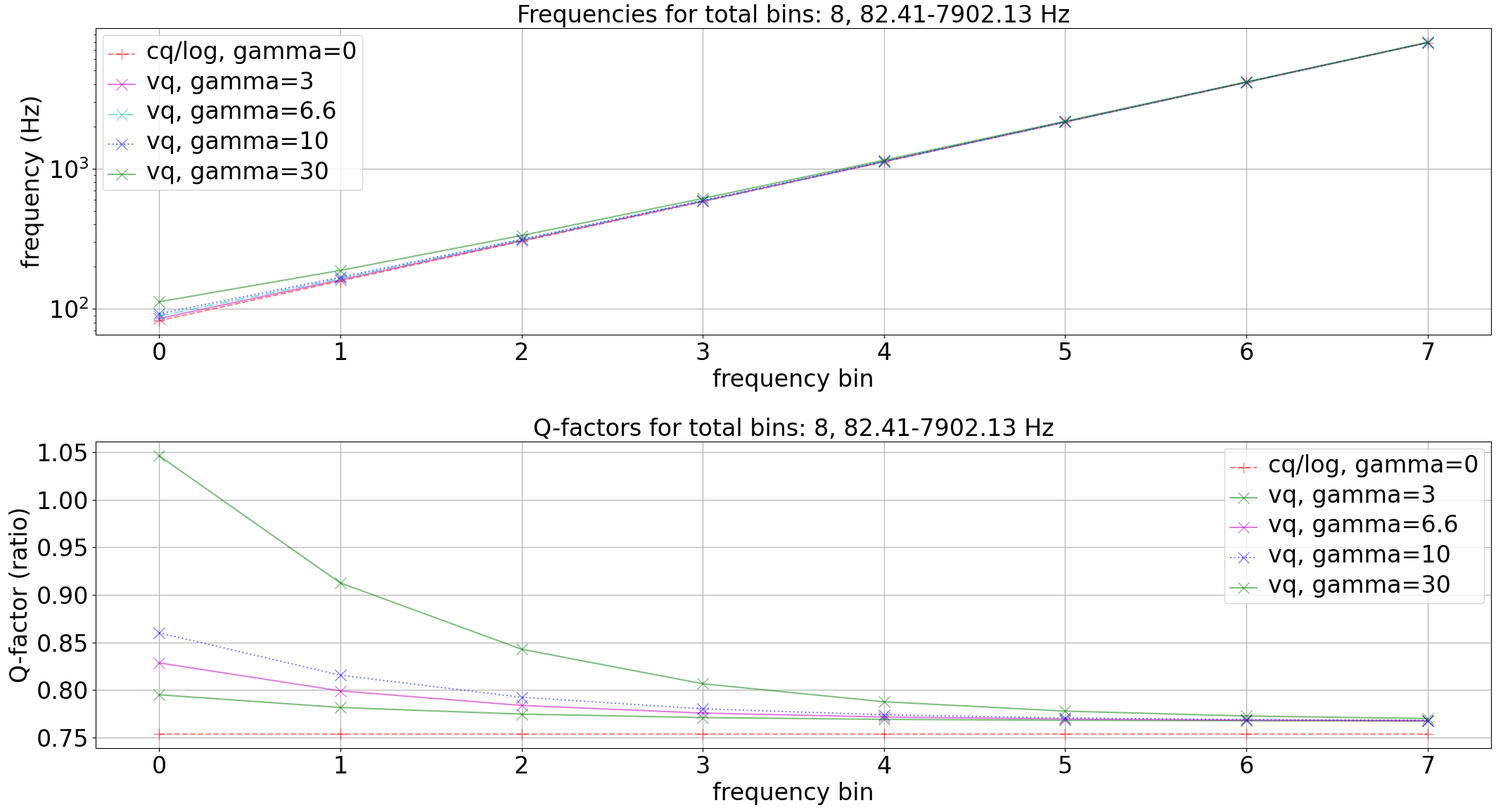
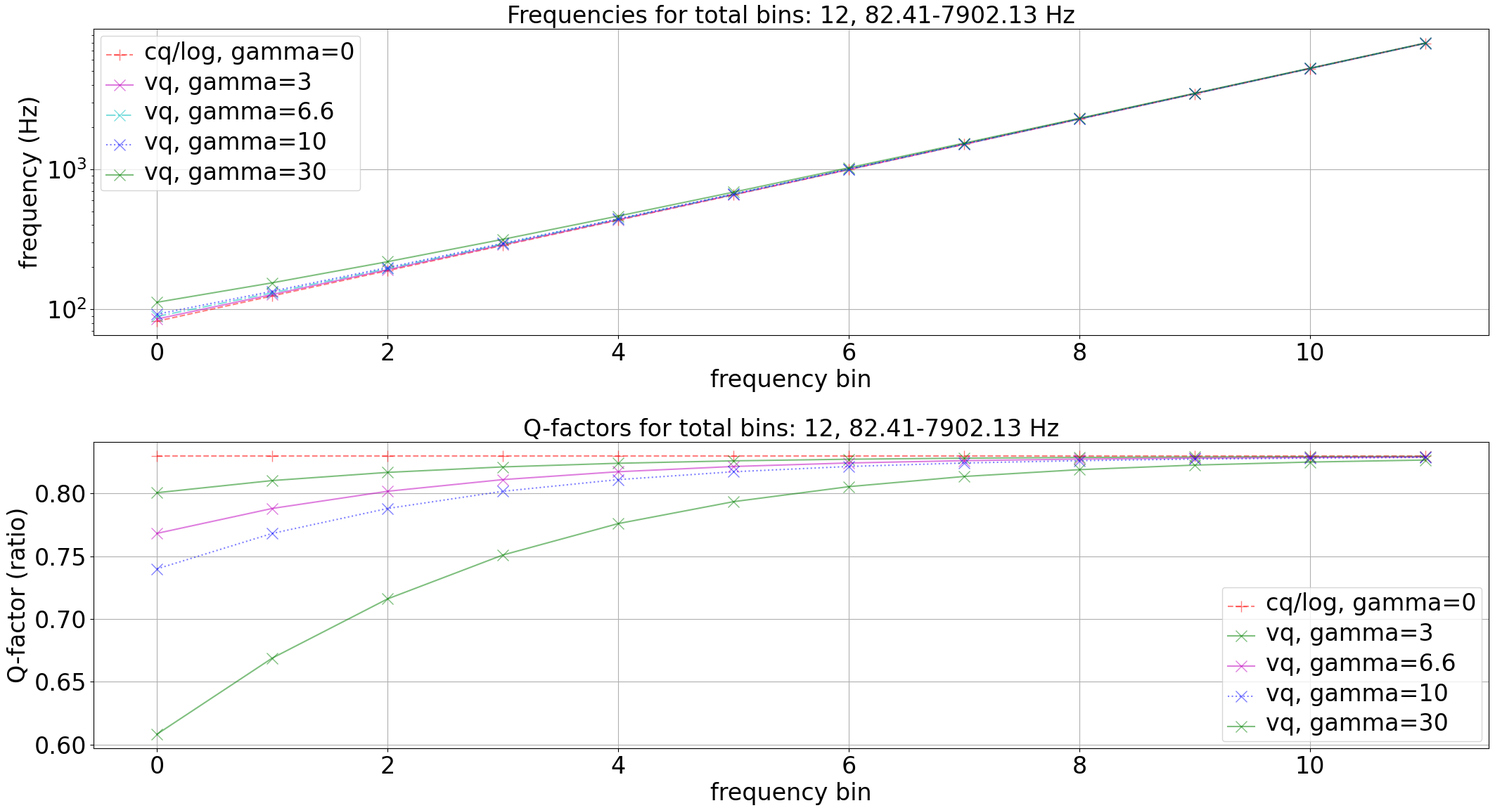
Work on ch2,ch3, add new nsgt 2022 code

diff --git a/latex/ch3.tex b/latex/ch3.tex
@@ -38,7 +38,7 @@ First, in Section \ref{sec:stftslicqtcomp}, \ref{sec:stftslicqtcomp1}, and \ref{
 
 Next, in Section \ref{sec:torchslicq}, I will show the modifications made to the library to compute the transform with PyTorch on the GPU, so that it can be used in the X-UMX neural network code. I will also describe how the PyTorch sliCQT data structure differs from the STFT.
 
-In Section \ref{sec:improvelib}, I will show the addition of new frequency scales that are interesting for music applications that were described in Section \ref{sec:fscales}. Recall from Section \ref{sec:theorynsgt} that the sliCQT can be thought of as a filterbank, and the chosen frequency scale is the most important parameter that defines the spectral representation of the musical signal, which influences the results of the downstream application.
+In Section \ref{sec:improvelib}, I will show the addition of new frequency scales that are interesting for music applications that were described in Section \ref{sec:fscales}. Recall from Section \ref{sec:theorynsgt} that the sliCQT can be thought of as a filterbank, and the chosen frequency scale is the most important parameter that defines the spectral representation of the musical signal, which influences the results of the downstream application. In Section \ref{sec:sllenpicker}, \hl{I will talk about how I added code to automatically choose the slice and transition length of the sliCQT based on the time-frequency resolution requirements of the desired frequency scale.}
 
 Finally, in Section \ref{sec:slicqparamsrch}, I will describe the parameter search that was run to choose frequency scales for the sliCQT with parameters that may perform best in a music demixing application. Section \ref{sec:fasterbsscupy} describes modifications made to the BSS (blind source separation) metrics library to make it run faster on the GPU, with the aim to speed up the parameter search process.
 
@@ -56,7 +56,7 @@ The sliCQT splits the input signal into fixed-size overlapping slices and comput
 From the above, there are two important and distinct characteristics that make working with the sliCQT different from the STFT:
 \begin{enumerate}
 	\item
-		The sliCQT computes the DFT coefficients for fixed-sized slices of the input signal. These slices need to be overlap-added with their adjacent slices to create the final meaningful spectrogram. Note that the shape of the DFT coefficients of each slice is ragged, due to the nonuniform time-frequency resolution.
+		The sliCQT computes the DFT coefficients for fixed-sized slices of the input signal. These slices need to be overlap-added with their adjacent slices to create the final spectrogram. Note that the shape of the DFT coefficients of each slice is ragged, due to the nonuniform time-frequency resolution.
 	\item
 		The overlap-added sliCQT spectrogram has the same ragged characteristic as the individual slices.
 \end{enumerate}
@@ -66,9 +66,7 @@ When designing a data structure for the sliCQT, each of these points has to be a
 \subsubsection{3D shape of the slice-wise sliCQT compared to the 2D STFT}
 \label{sec:stftslicqtcomp1}
 
-The sliCQT was described in Section \ref{sec:theoryslicqt} as a realtime implementation of the NSGT, consisting of DFT coefficients computed for the input signal split into overlapping slices, shown in Figure \ref{fig:slicqtukeys}. The sliCQT therefore returns multiple slices of DFT coefficients for an input signal of length $N > sllen$. These slices need to be overlap-added with 50\% of the previous and next slice to produce a meaningful spectrogram due to the symmetric zero-padding of each slice to reduce time-aliasing, which was described in Section \ref{sec:theoryslicqt} and shown in Figure \ref{fig:slicqoverlaps}.
-
-This is a characteristic specific to the sliCQT; the NSGT, which is the ancestor of the sliCQT not designed for realtime processing, outputs the meaningful spectrogram directly without requiring any overlap-add. To oversimplify, the sliCQT outputs a ragged time-frequency transform similar to the NSGT for each slice of the input signal, and that to produce the final spectrogram for the entire signal, the transform of each slice need to be overlap-added with its adjacent slices.
+The sliCQT was described in Section \ref{sec:theoryslicqt} as a realtime implementation of the NSGT, consisting of DFT coefficients computed for the input signal split into overlapping slices, shown in Figure \ref{fig:slicqtukeys}. The sliCQT therefore returns multiple slices of DFT coefficients for an input signal of length $N > sllen$. These slices need to be overlap-added with 50\% of the previous and next slice to produce a spectrogram, because each slice is symmetrically zero-padded to twice its length to reduce time-aliasing, which was described in Section \ref{sec:theoryslicqt} and shown in Figure \ref{fig:slicqoverlaps}. This is a characteristic specific to the sliCQT. The NSGT, which is the ancestor of the sliCQT not designed for realtime processing, outputs the spectrogram directly without requiring any overlap-add.
 
 Figure \ref{fig:raggedslicqtoverlapadd} shows the procedure of overlap-adding ragged adjacent slices of the sliCQT to produce the final overlap-added ragged transform.
 
@@ -151,11 +149,13 @@ In this section, I will discuss why I would like to add new frequency scales to 
 
 The frequency scale is the most important parameter of the NSGT and sliCQT. It defines the nonuniform frequency bands for audio analysis desired by the user. The choice of frequency scale affects the spectral representation of the music signal. The hypothesis of this thesis is that a spectrogram generated from a musical or auditory frequency scale may improve the results of the downstream music demixing system compared to the STFT, which suffers from the time-frequency tradeoff described in Section \ref{sec:jointtfa}.
 
-Section \ref{sec:theorynsgt} showed examples of NSGT spectrograms with the Constant-Q (logarithmic) and mel scales, in Figures \ref{fig:bunchansgts1} and \ref{fig:bunchansgts2}. These are the scales provided in the reference NSGT/sliCQT library. In Section \ref{sec:fscales}, I discussed that the Variable-Q scale for music and Bark psychoacoustic scale are both of interest in music or auditory applications. For this reason, I chose to implement the Variable-Q and Bark scales to supplement the Constant-Q and mel scales.
+\hl{I want to remark on the omission of the octave scale from this section}, which is the only scale for the sliCQT shown in the paper \parencite{slicq}. It is also the default scale in the various open-source implementations of the NSGT.\footnote{\url{https://github.com/grrrr/nsgt}, \url{https://www.mathworks.com/help/wavelet/ref/cqt.html}, \url{http://ltfat.org/doc/filterbank/cqt_code.html}} The octave scale is like the Constant-Q (logarithmic in base two) scale, except that the bins parameter is interpreted as bins-per-octave, and the total frequency bins is computed from equation \eqref{equation:bpo} shown in Section \ref{sec:cqt}. This is discussed in Appendix \ref{appendix:octscale}. In xumx-sliCQ, I want the bins parameter to control the number of output frequency bins of the sliCQT directly, without the bins-per-octave calculation in between.
+
+Section \ref{sec:theorynsgt} showed examples of NSGT spectrograms with the Constant-Q (logarithmic in base two) and mel scales, in Figures \ref{fig:bunchansgts1} and \ref{fig:bunchansgts2}. These are the scales provided in the reference NSGT/sliCQT library. In Section \ref{sec:fscales}, I discussed that the Variable-Q scale for music and Bark psychoacoustic scale are both of interest in music or auditory applications. For this reason, I chose to implement the Variable-Q and Bark scales to supplement the Constant-Q and mel scales.
 
 The parameters to a frequency scale in the NSGT/sliCQT library are $f_{\text{min}}$ and $f_{\text{max}}$, which are the minimum and maximum frequency in Hz, and the total frequency bins. The type of scale determines how the frequency bins are distributed between $f_{min}$--$f_{\text{max}}$. A custom frequency scale may use additional parameters as needed.
 
-The first frequency scale I added was the Variable-Q scale,\footnote{\url{https://github.com/sevagh/nsgt/blob/main/nsgt/fscale.py\#L105}} which introduces an additional parameter, $\gamma \text{ (Hz)}$ for the offset. $\gamma$ is a frequency offset added to each frequency band to reduce the Q-factor and improve the time resolution in the lower frequency bins, as described in Section \ref{sec:fscales} The Constant-Q scale is compared to Variable-Q scale \hl{for different values of} $\gamma$ in Figure \ref{fig:vq}.
+The first frequency scale I added was the Variable-Q scale,\footnote{\url{https://github.com/sevagh/nsgt/blob/main/nsgt/fscale.py\#L105}} which introduces an additional parameter, $\gamma \text{ (Hz)}$ for the offset. $\gamma$ is a frequency offset added to each frequency band to reduce the Q-factor and improve the time resolution in the lower frequency bins, as described in Section \ref{sec:fscales} Figure \ref{fig:vq} compares the Constant-Q and Variable-Q frequency scales and Q-factors \hl{for different values of} $\gamma$. The Q-factor of Constant-Q scale was defined as the relative frequency resolution in Section \ref{sec:cqt}, so a low Q-factor
 
 \begin{figure}[ht]
 	\centering
@@ -164,20 +164,21 @@ The first frequency scale I added was the Variable-Q scale,\footnote{\url{https:
 	\label{fig:vq}
 \end{figure}
 
-The next frequency scale I added was the Bark psychoacoustic scale,\footnote{\url{https://github.com/sevagh/nsgt/blob/main/nsgt/fscale.py\#L207}} to complement the included mel scale, as discussed in Section \ref{sec:fscales}. Figure \ref{fig:melbarkfsandqs} shows the mel and Bark frequency scales and Q-factors from the NSGT library for 12 total mel and Bark bands.
+The next frequency scale I added was the Bark psychoacoustic scale,\footnote{\url{https://github.com/sevagh/nsgt/blob/main/nsgt/fscale.py\#L207}} to complement the included mel scale, as discussed in Section \ref{sec:fscales}. Figure \ref{fig:melbarkfsandqs} shows the mel and Bark frequency scales and Q-factors.
 
 \begin{figure}[ht]
 	\centering
 	\includegraphics[width=\textwidth]{./images-freqscales/melbarkpitchesqs.png}
-	\caption{Mel and Bark frequency curves and Q-factors from the NSGT library}
+	\caption{Frequency bins and Q-factors for the mel and Bark scales}
 	\label{fig:melbarkfsandqs}
 \end{figure}
 
-\hl{As mentioned in Section} \ref{sec:theoryslicqt}, the sliCQT processes the input signal in fixed-sized slices, ideal for realtime processing and for input signals with arbitrary lengths. Compared to the NSGT, the sliCQT has an additional need for slice length and transition length parameters. To analyze an input musical signal with the above nonuniform frequency scales, the slice and transition length of sliCQT need to be set appropriately to support the varying time-frequency resolution. I added code to the sliCQT library to automatically choose the minimum appropriate slice length and transition length for a given frequency scale.\footnote{\url{https://github.com/sevagh/nsgt/blob/main/nsgt/fscale.py\#L36}} This improves the user experience by only requiring the frequency scale as the parameter to the sliCQT.
+\subsubsection{Automatic slice length picker}
+\label{sec:sllenpicker}
 
-As a final note, the existing NSGT implementations\footnote{\url{https://github.com/grrrr/nsgt}, \url{https://www.mathworks.com/help/wavelet/ref/cqt.html}, \url{http://ltfat.org/doc/filterbank/cqt_code.html}} use an octave scale, which is the same as the Constant-Q/logarithmic scale, except that the bins parameter is interpreted as bins-per-octave. This is discussed in Appendix \ref{appendix:octscale}.
+\hl{As mentioned in Section} \ref{sec:theoryslicqt}, the sliCQT processes the input signal in fixed-sized slices, ideal for realtime processing and for input signals with arbitrary lengths. Compared to the NSGT, the sliCQT has an additional need for slice length and transition length parameters. To analyze an input musical signal with nonuniform frequency scales, the slice and transition length of sliCQT need to be set appropriately to support the varying time-frequency resolution. I added code to the sliCQT library to automatically choose the minimum appropriate slice length and transition length for a given frequency scale.\footnote{\url{https://github.com/sevagh/nsgt/blob/main/nsgt/fscale.py\#L36}} This improves the user experience by only requiring the frequency scale as the parameter to the sliCQT.
 
-\newpagefill
+\explanation{just made this a subsection}
 
 \subsubsection{Choosing sliCQT parameters}
 \label{sec:slicqparamsrch}
@@ -185,8 +186,6 @@ As a final note, the existing NSGT implementations\footnote{\url{https://github.
 In this section, I will design a sliCQT parameter search to discover optimal sliCQT parameters that produce the best mixed phase inversion (MPI) oracle results. MPI is the music demixing strategy where the target magnitude spectrogram is combined with the phase of the mix spectrogram to create a time-domain target waveform estimate, as was described in Section \ref{sec:noisyphaseoracle}. The MPI oracle represents the best possible result of the MPI strategy by using the ground truth target magnitude spectrogram. Since the MPI strategy is used in X-UMX and xumx-sliCQ, my hypothesis is that maximizing the MPI oracle result would maximize the music demixing performance of the final neural network.
 
 As discussed in Section \ref{sec:ml}, the validation split of a dataset is often used to tune hyperparameters, which are the parameters of a machine learning or deep learning network defined by the user. In xumx-sliCQ, the sliCQT parameters are a hyperparameter, similar to how the STFT settings of the window and hop size are hyperparameters in X-UMX.
-
-According to \textcite{randomgrid}, 60\todo{fix magic num} iterations of a random search will find a statistically good set of hyperparameters in a case where an exhaustive grid search is impossible. I chose a random search because the space of all the possible sliCQT parameters is infinite.
 
 As described in Section \ref{sec:improvelib}, the time and frequency resolution of the sliCQT are defined from the frequency scale, and the parameters of the frequency scale are $f_{\text{min}}$ and $f_{\text{max}}$, which are the minimum and maximum frequency in Hz, and the total frequency bins.
 
@@ -218,6 +217,14 @@ The random search parameters are shown in Table \ref{table:slicqparams}. Note th
 \end{tabular}
 \end{table}
 
+\hl{The space of possible parameters is infinite}, even with the ranges constrained as in Table \ref{table:slicqparams}. Therefore, an exhaustive grid search over all the possible parameters is impossible. I chose instead to do a random search over the parameter space. \textcite{randomgrid} found that in a hyperparameter search for a neural network,
+
+\begin{quote}
+	[o]ften the extent of a search is determined by a computational budget, and with random search 64 trials are enough to find better models in a larger less promising space \parencite[293]{randomgrid}
+\end{quote}
+
+\hl{Since the sliCQT parameters are hyperparameters} of the xumx-sliCQ neural network, I decided from the above that using at least 64 iterations of a random search would yield a good enough result. I ran two instances of the script with 60 iterations each, resulting in 120 total iterations of the random parameter search for each of the four frequency scales. Each instance of the script used a different random seed (42 and 1337) (the role of fixing the seed of Python's random number generator (RNG) is discussed in Section \ref{sec:pyrng}.
+
 Recall from Section \ref{sec:evalbss} that the Signal-to-Distortion (SDR) is one of the scores of the BSS metrics, with a units of decibels (dB), which is commonly used as a single metric that summarizes the global performance of a music demixing system. The selected sliCQT frequency scale parameters were evaluated by computing the mix-phase waveforms, which were described in Section \ref{sec:noisyphaseoracle}. The phase of the complex sliCQT of the mixed song and the magnitude of the complex sliCQT of the ground-truth source signal for all four sources (drums, bass, vocals, other) were combined to create the MPI (mix-phase inversion) waveforms. The median SDR was computed across the four sources and 14 validation tracks of MUSDB18-HQ, and the sliCQT parameters that resulted in the MPI waveforms with the highest SDR were selected as the final sliCQT parameters to use in the neural network.
 
 \subsubsection{Speeding up the parameter search using the GPU and CuPy}
@@ -231,7 +238,7 @@ The bottlenecks of the BSS metrics library are caused by NumPy and SciPy operati
 
 I copied the BSS metrics library \hl{to my own GitHub user account},\footnote{\url{https://github.com/sevagh/sigsep-mus-eval}} which is called \Verb#sigsep-mus-eval# in the SigSep GitHub organization, and replaced the slowest NumPy and SciPy functions with their CuPy equivalents,\footnote{\url{https://github.com/sevagh/sigsep-mus-eval/commit/f3b7540faddc8d2b1bc91cecaf05fd20d96df7c6}} taking special care about GPU out-of-memory errors. The library is unchanged for end users, and the GPU is simply used whenever possible, falling back to the CPU in case of any errors, or if there is no GPU available on the user's computer.
 
-\todo[inline,color=green!40]{The relevance here is to make clear that the upstream BSS metrics library does not include my speedups, and that its available only in my copy}
+\explanation{The relevance here is to make clear that the upstream BSS metrics library does not include my speedups, and that its available only in my copy}
 
 \newpagefill
 
@@ -249,7 +256,7 @@ Finally, in Section \ref{sec:xumxinc} I will show how I incorporated the X-UMX i
 
 In this section, I will describe the changes made to X-UMX to support the data-structure of the sliCQT shown in Section \ref{sec:torchslicqdatastructure}, which addressed the distinct traits of the sliCQT compared to the STFT: the 3D slice-wise output, and the ragged shape from the nonuniform time-frequency resolution.
 
-Firstly, X-UMX uses a sequence duration of six seconds, meaning the training inputs are six second waveforms of audio. The dimensionality of the sliCQT is larger than the STFT. The sliCQT of a six second sequence is larger than the equivalent STFT, which leadsd to more GPU memory being required in training. In xumx-sliCQ, I chose a smaller value of one second of music, chosen because it is often used in demixing papers \parencite{plumbley1, plumbley2, demucs}, and because the shorter sequence results in a smaller sliCQT, \hl{reducing the memory demands on the GPU}.
+Firstly, X-UMX uses a sequence duration of six seconds, meaning the training inputs are six second waveforms of audio. The dimensionality of the sliCQT is larger than the STFT. The sliCQT of a six second waveform is larger than the STFT, which leads to more GPU memory being required in training. In xumx-sliCQ, I chose a smaller value of one second of music, chosen because it is often used in demixing papers \parencite{plumbley1, plumbley2, demucs}, and because the shorter sequence results in a smaller sliCQT, \hl{reducing the memory demands on the GPU}.
 
 In sections \ref{sec:raggedtf} and \ref{sec:torchslicqdatastructure}, I described the data structure of the ragged sliCQT and how it differed from the single rectangular matrix of the STFT. The ragged sliCQT outputs a list of 3D matrices, representing the sliced transform, that must be overlap-added to create a list of 2D time-frequency matrices. Recall that the list was introduced from the raggedness of the transform, because each group of time-frequency bins has a different temporal framerate, resulting in a different size tensor or matrix. This raggedness is a desired characteristic of nonuniform time-frequency transforms like the NSGT, sliCQT, and even the original CQT.
 
@@ -260,7 +267,7 @@ First, the list of 3D tensors of the sliCQT must always be overlap-added to tran
 
 In this section, a choice of Bi-LSTM and CDAE architectures for the ragged sliCQT in xumx-sliCQ will be presented.
 
-\todo[inline,color=green!40]{how these were implemented? copied from umx originally, and the torch code of the CDAE paper}
+\explanation{how these were implemented? copied from umx originally, and the torch code of the CDAE paper}
 
 Figure \ref{fig:cdaeslicqt} shows how both the Bi-LSTM and CDAE network architectures should be applied to the ragged sliCQT. Instead of having a single neural network operate on the single matrix of the STFT, which includes all of the frequency bins at the same temporal frame rate, there must be a neural network that operates on each of the sub-matrices of the ragged sliCQT.
 
@@ -289,7 +296,7 @@ As discussed in sections \ref{sec:cnn} and \ref{sec:cdae}, convolutional layers,
 
 Using the values from \textcite{plumbley2}, the two layers of convolution in the CDAE of xumx-sliCQ use 25 and 55 channels respectively.\todo{create a diagram} This means that the stereo or 2-channel sliCQT has 25 output feature maps (or channels) computed from the first encoder convolutional layer, and 55 output feature maps from the second encoder convolutional layer. These are reversed in the decoder layer i.e., $2 \rightarrow \text{encoder}(25 \rightarrow 55) \rightarrow \text{decoder}(25 \rightarrow 2)$. The sub-matrices of the ragged sliCQT may have different dimensions for time and frequency, due to their varying frequency bins and temporal framerates, so the 2D convolution filter sizes are adapted to the input size. After each layer, a 2D batch normalization (BN) and nonlinear activation function, specifically the rectified linear unit (ReLU) activation, are applied \parencite{plumbley2}.
 
-The exact parameters and configuration of the convolutional kernels and layers are described in Tables \ref{table:convtable1}, \ref{table:convtable2}, \ref{table:convtable3}, and \ref{table:convtable4}. The parameters were initially chosen from the kernel values and layers in \textcite{plumbley1, plumbley2}. The parameters and network architectures were repeatedly modified in a hyperparameter tuning process, and an overview of all the historical experiments of xumx-sliCQ is included in Appendix \ref{appendix:crazyexperiments}.
+The exact parameters and configuration of the convolutional kernels and layers are described in Tables \ref{table:convtable1}, \ref{table:convtable2}, \ref{table:convtable3}, and \ref{table:convtable4}. The parameters were initially chosen from the kernel values and layers in \textcite{plumbley1, plumbley2}. The parameters and network architectures were repeatedly modified in a hyperparameter tuning process, \hl{and an overview of all the historical experiments of xumx-sliCQ} is included in Appendix \ref{appendix:crazyexperiments}.
 
 \begin{table}[ht]
 	\centering
@@ -347,16 +354,16 @@ The exact parameters and configuration of the convolutional kernels and layers a
 \subsubsection{Bandwidth parameter}
 \label{sec:bandwidth}
 
-Another\todo{say why im talking about this} detail of the original X-UMX neural network architecture is the bandwidth parameter, which is set to a default value of 16,000 Hz. This controls the maximum STFT frequency bin which is passed through the network; frequency bins above the one corresponding to 16,000 Hz are cropped before passing the spectrogram into the network. I used the same parameter in both Bi-LSTM and CDAE architectures of xumx-sliCQ. In the ragged sliCQT, the sub-matrices of the ragged transform that contain frequency bins above 16,000 Hz are passed through the neural network unchanged, to achieve the same effect.
+X-UMX has a bandwidth parameter which controls how much of the 2049 output frequencies of the STFT with a window size of 4096 are used as an input to the neural network. The default value of the bandwidth parameter is 16,000 Hz, which means that the frequency bins of the STFT $> 16,000 \text{ Hz}$ are cropped before the STFT is input into the neural network. I implemented the same parameter in both Bi-LSTM and CDAE architectures of xumx-sliCQ. In the ragged sliCQT, it is possible to obtain the frequency value of each frequency bin. To implement the bandwidth parameter, I pass the frequency bins corresponding to a Hz value greater than the bandwidth parameter through the network unchanged.
 
-\todo[inline,color=green!40]{just made this a subsection}
+\explanation{just made this a subsection}
 
 \subsubsection{De-overlap layer}
 \label{sec:deoverlap}
 
 In this section, I will discuss the ``de-overlap layer,'' which is necessary for both the Bi-LSTM and CDAE architectures of xumx-sliCQ. This is the inverse of the 50\% slice overlap-add procedure with learnable parameters.
 
-\todo[inline,color=green!40]{original contribution? yes. how do i know it was correct? well, 3.6 dB isn't world-beating, but it's probably better than random garbage, indicating my network is doing something correctly}
+\explanation{original contribution? yes. how do i know it was correct? well, 3.6 dB isn't world-beating, but it's probably better than random garbage, indicating my network is doing something correctly}
 
 I use a transpose convolution layer with a kernel size of $(1, 3)$ and a stride of $(1, 2)$ where the first dimension is frequency and the second is time. This means that for each frequency bin, the kernel slides and considers three time coefficients to produce six time coefficients. The effect is to double the number of time coefficients, which is a reversal of the 50\% reduction of time coefficients from the overlap-add procedure.
 
@@ -369,7 +376,7 @@ Finally, the 2D sliCQT is reshaped to the original 3D shape, separating it back 
 
 To implement the time-domain SDR loss, I use the auraloss Python package.\footnote{\url{https://github.com/csteinmetz1/auraloss}} I used the SI-SDR (scale-invariant SDR) \parencite{roux2018sdr} variant of SDR as the loss function. SI-SDR is a simpler and more robust variant of SDR which improves on some failure cases of SDR \parencite{roux2018sdr}.
 
-\todo[inline,color=green!40]{this is different now that i shifted the burden of explaining UMX vs. X-UMX to chapter 2}
+\explanation{this is different now that i shifted the burden of explaining UMX vs. X-UMX to chapter 2}
 
 \newpagefill
 

diff --git a/latex/ch4.tex b/latex/ch4.tex
@@ -6,7 +6,6 @@ General tips:\\
   Switch passive voice and we to I\\
   Re-spell acronyms at the beginning of Chapter\\
  Chapter tips:\\
-   Fix boxplot colors\\
    More redundancy (restate hypothesis, goals)
 }
 \section{Experiment}
@@ -14,18 +13,18 @@ General tips:\\
 
 This section contains the results of the experiments described in the previous Section \ref{sec:methodology}. Refer to appendix \ref{appendix:computerspec} for the hardware and software specifications of the computer on which the experiments and results in this section were generated from.
 
-The goal of this thesis is to use the sliced Constant-Q Transform (sliCQT) instead of the Short-Time Fourier Transform (STFT) in CrossNet-Open-Unmix (X-UMX), a neural network for music demixing. The sliCQT has a varying time-frequency resolution more suitable for auditory and psychoacoustic applications, which may give it an advantage in musical applications over the STFT which is limited by a fixed time-frequency resolution.
+The goal of this thesis is to use the sliced Constant-Q Transform (sliCQT) to represent musical signals in CrossNet-Open-Unmix (X-UMX), a neural network for music demixing. The sliCQT has a varying time-frequency resolution more suitable for auditory and psychoacoustic applications, which may give it an advantage in musical applications over the STFT which is limited by a fixed time-frequency resolution.
 
-To use the sliCQT in a neural network using the PyTorch framework, the reference library was first ported to PyTorch. This port was described in Section \ref{sec:torchslicq}, and in Section \ref{sec:gpuexperimentpytorch}, I will show the benchmark results.
+To use the sliCQT in a neural network using the PyTorch framework, the reference sliCQT library was first ported to PyTorch. This port was described in Section \ref{sec:torchslicq}, and in Section \ref{sec:gpuexperimentpytorch}, I will show the benchmark results.
 
 In Section \ref{sec:slicqparamsrch}, I described a random parameter search for the sliCQT which used the mix-phase inversion (MPI) oracle to pick sliCQT parameters that might perform best in a music demixing system that uses the MPI strategy for estimating waveforms. In Section \ref{sec:slicqparamresults}, I will show the sliCQT parameters that were chosen by the random search script. The BSS metrics library was sped up with CuPy in Section \ref{sec:fasterbsscupy} to allow for faster sliCQT parameter searches, and in Section \ref{sec:cupyportbss}, I will show the benchmark results.
 
-After porting the sliCQT to PyTorch and choosing the sliCQT parameters, the next step is to train and evaluate the xumx-sliCQ neural network. Section \ref{sec:nnresults} contains the results for the neural network design presented in Section \ref{sec:neuralnet}. First, Section \ref{sec:hyperparams} will list all of the network hyperparameters. Next, Section \ref{sec:networktraining} will describe the training times and losses of the network architectures described in Section \ref{sec:slicqarches}. Finally, Section \ref{sec:demixresults} will show the music demixing results of the fully trained xumx-sliCQ model, using both post-processing Wiener-EM configurations described in Section \ref{sec:postprocessing}, and Section \ref{sec:inferenceperf} will describe the inference performance and model size on disk.
+After porting the sliCQT to PyTorch and choosing the sliCQT parameters, the next step was to train and evaluate the xumx-sliCQ neural network. Section \ref{sec:nnresults} contains the results for the neural network design presented in Section \ref{sec:neuralnet}. First, Section \ref{sec:hyperparams} will list all of the network hyperparameters. Next, Section \ref{sec:networktraining} will describe the training times and losses of the network architectures described in Section \ref{sec:slicqarches}. Finally, Section \ref{sec:demixresults} will show the music demixing results of the fully trained xumx-sliCQ model, using both post-processing Wiener-EM configurations described in Section \ref{sec:postprocessing}, and Section \ref{sec:inferenceperf} will describe the inference performance and model size on disk.
 
 \subsection{PyTorch port of the sliCQT}
 \label{sec:gpuexperimentpytorch}
 
-The first step was to port the sliCQT to PyTorch, a popular GPU neural network framework for Python, so that it could be used in a neural network. In Section \ref{sec:torchslicq}, I described how I ported the original CPU-based NumPy implementation of the reference sliCQT Python library to PyTorch. In this section, I will show benchmark results of the PyTorch port.
+The first step was to port the sliCQT to PyTorch, a GPU neural network framework for Python, so that it could be used in a neural network. In Section \ref{sec:torchslicq}, I described how I ported the original CPU-based NumPy implementation of the reference sliCQT Python library to PyTorch. In this section, I will show benchmark results of the PyTorch port.
 
 The benchmark script for the PyTorch implementation of the sliCQT performs the forward and backward sliCQT using the Bark scale with 50 bins between 20--22,050 Hz. The sliCQT is taken on a single 3:54 minute song from the MUSDB18-HQ dataset, ``Zeno - Signs.'' The sliCQT parameters were chosen so that the transform of the song occupied a maximum of 7.2 GB of memory and could fit on the device with the least memory, the NVIDIA 2070 Super GPU. The computation time was repeated for 100 iterations and averaged. The cost of the memory transfer of the song to the GPU was not included in the measurement. Table \ref{table:nsgttorchresultsragged} shows the benchmark results.
 

diff --git a/latex/ch2.tex b/latex/ch2.tex
@@ -494,15 +494,15 @@ The NSGT processes the entire input signal at once. In cases where the input sig
 	\label{fig:slicqtukeys}
 \end{figure}
 
-Additionally, the ``slicing windows are symmetrically zero-padded to length 2N , reducing time-aliasing significantly'' \parencite[10]{slicq}, with the effect that adjacent slices need to be 50\% overlap-added with each other to create the final spectrogram. There is no inverse operation for the 50\% overlap-add provided in the paper. Figure \ref{fig:slicqoverlaps} demonstrates this issue.\todo{fix flatten spectrogram}
+Additionally, the ``slicing windows are symmetrically zero-padded to length 2N , reducing time-aliasing significantly'' \parencite[10]{slicq}, with the effect that adjacent slices need to be 50\% overlap-added with each other to create the final spectrogram. There is no inverse operation for the 50\% overlap-add provided in the paper. Figure \ref{fig:slicqoverlaps} demonstrates this characteristic of the sliCQT.
 
 Note the terminology of the sliCQT, which uses slice length instead of the window length of the STFT, and transition length or transition area instead of the overlap or hop length of the STFT. Slice and transition are used to distinguish the larger slice-wise operation of the sliCQT from the local windowing and overlapping done \textit{within} each slice to achieve the desired time-frequency resolution. The real overlap between slices can vary up to a maximum of the transition area.
 
 \begin{figure}[ht]
 	\centering
-	\subfloat[Adjacent slices placed side-by-side]{\includegraphics[width=0.675\textwidth]{./images-gspi/gspi_overlap_flatten.png}}\\
+	\subfloat[Adjacent slices placed side-by-side without overlap-adding]{\includegraphics[width=0.675\textwidth]{./images-gspi/gspi_overlap_flatten.png}}\\
 	\subfloat[Adjacent slices with 50\%-overlap-add]{\includegraphics[width=0.675\textwidth]{./images-gspi/gspi_overlap_proper.png}}
-	\caption{sliCQT spectrograms demonstrating the slice half-overlap}
+	\caption{sliCQT spectrograms demonstrating the necessary slice 50\% overlap-add due to the symmetric zero-padding of each slice}
 	\label{fig:slicqoverlaps}
 \end{figure}
 
@@ -717,6 +717,11 @@ The underlying values are stored in formats that allow for efficient numerical c
 In PyTorch and Tensorflow (and in general machine learning), a similar concept to the ndarray is the tensor. The tensor originates from the field of physics \parencite{whatistensor}. The tensor is also an n-dimensional numerical array, and NumPy ndarrays are interchangeable with both PyTorch and Tensorflow tensors.\footnote{\url{https://www.tensorflow.org/guide/tf_numpy}, \url{https://pytorch.org/tutorials/beginner/blitz/tensor_tutorial.html}}
 
 Tensors can be used for numerical computations using the GPU in both PyTorch and TensorFlow, much like the ndarray with NumPy and SciPy on the CPU. For example, \Verb#torch.cos()# computes the cosine of a tensor. Additionally and most importantly, the inputs and outputs to the machine learning and deep learning constructs supported by these libraries are represented as tensors.
+
+\subsubsection{Random number generation}
+\label{sec:pyrng}
+
+The \Verb#random# module of Python contains a random number generator (RNG).\footnote{\url{https://docs.python.org/3/library/random.html}} The \Verb#seed# function initializes the random number generator,\footnote{\url{https://docs.python.org/3/library/random.html\#bookkeeping-functions}} which is in fact pseudorandom \parencite{pseudorng}. Pseudorandom means that given the same starting seed, the exact same sequence of numbers are generated deterministically. The seed is usually a parameter to a script or Python program, such that the user can recreate the same RNG sequences for testing purposes by using the same seed.
 
 \subsubsection{Package managers for Python}
 

diff --git a/latex/scripts/vqfscale.py b/latex/scripts/vqfscale.py
@@ -2,6 +2,12 @@ import matplotlib.pyplot as plt
 from matplotlib.ticker import MaxNLocator
 import librosa
 from nsgt.fscale import OctScale, LogScale, VQLogScale
+from warnings import warn
+
+warn('dont forget the patc to return a reciprocal of the Q factor')
+
+import pathlib, nsgt; print(pathlib.Path(nsgt.__file__).resolve().parent)
+
 import numpy, sys
 
 Fmin = 82.41 # hz of E2
@@ -54,7 +60,7 @@ for item in ([axes[0].title, axes[0].xaxis.label, axes[0].yaxis.label] +
 axes[0].grid()
 axes[0].xaxis.set_major_locator(MaxNLocator(integer=True))
 
-axes[1].plot(log_Qs, 'r--', alpha=0.5, marker='+', markersize=12)
+axes[1].plot(1.0/log_Qs, 'r--', alpha=0.5, marker='+', markersize=12)
 
 for i, gamma in enumerate(gammas):
     if i == 1:
@@ -67,7 +73,7 @@ for i, gamma in enumerate(gammas):
         linestr = 'g'
 
     gamma_fs, gamma_Qs = vql_scales[i]()
-    axes[1].plot(gamma_Qs, linestr, alpha=0.5, marker='x', markersize=12)
+    axes[1].plot(1.0/gamma_Qs, linestr, alpha=0.5, marker='x', markersize=12)
 
 axes[1].legend([f'cq/log, gamma=0'] + [f'vq, gamma={gamma}' for gamma in gammas])
 axes[1].set_title(f'Q-factors for total bins: {K}, {Fmin}-{Fmax} Hz')

diff --git a/mss_evaluation/mss-oracle-experiments/oracle_eval/boxplot.py b/mss_evaluation/mss-oracle-experiments/oracle_eval/boxplot.py
@@ -146,11 +146,11 @@ def save_boxplot(pandas_in, pdf_out, single=False, colors_legend=None, print_med
             if colors_legend == 'control':
                 for (row_val, col_val), ax in g.axes_dict.items():
                     ax.artists[0].set_facecolor('magenta')
-                    ax.artists[1].set_facecolor('magenta')
+                    #ax.artists[1].set_facecolor('magenta')
                     #ax.artists[2].set_facecolor('orangered')
                     #ax.artists[3].set_facecolor('orangered')
                     ax.artists[2].set_facecolor('cyan')
-                    ax.artists[6].set_facecolor('cyan')
+                    #ax.artists[6].set_facecolor('cyan')
 
                 name_to_color = {
                     'chosen-slicqt': 'magenta',

diff --git a/latex/report.tex b/latex/report.tex
@@ -71,6 +71,10 @@
 	\clearpage
 }
 
+\newcommand{\explanation}{
+	\todo[inline,color=green!40]
+}
+
 \DeclareCiteCommand{\secondaryciteauthor}{}{\printtext[bibhyperref]{\printnames{labelname}}}{}{}
 \DeclareCiteCommand{\secondaryciteyear}{}{\bibhyperref{\printdate}}{\multicitedelim}{}
 \newcommand{\secondarycitedirect}[2]{\secondaryciteauthor{#1} (\secondaryciteyear{#1}, cited in \secondaryciteauthor{#2}, \secondaryciteyear{#2})}

diff --git a/latex/ch6.tex b/latex/ch6.tex
@@ -122,6 +122,8 @@ where $K$ is the total bins, $B$ is the bins-per-octave, and $\xi_{\text{min,max
 \section{xumx-sliCQ experiments}
 \label{appendix:crazyexperiments}
 
+\todo[inline]{actually do this, talk about ISMIR2021 challenge, submission repo, experiments, etc.}
+
 \end{appendices}
 
 \end{document}
